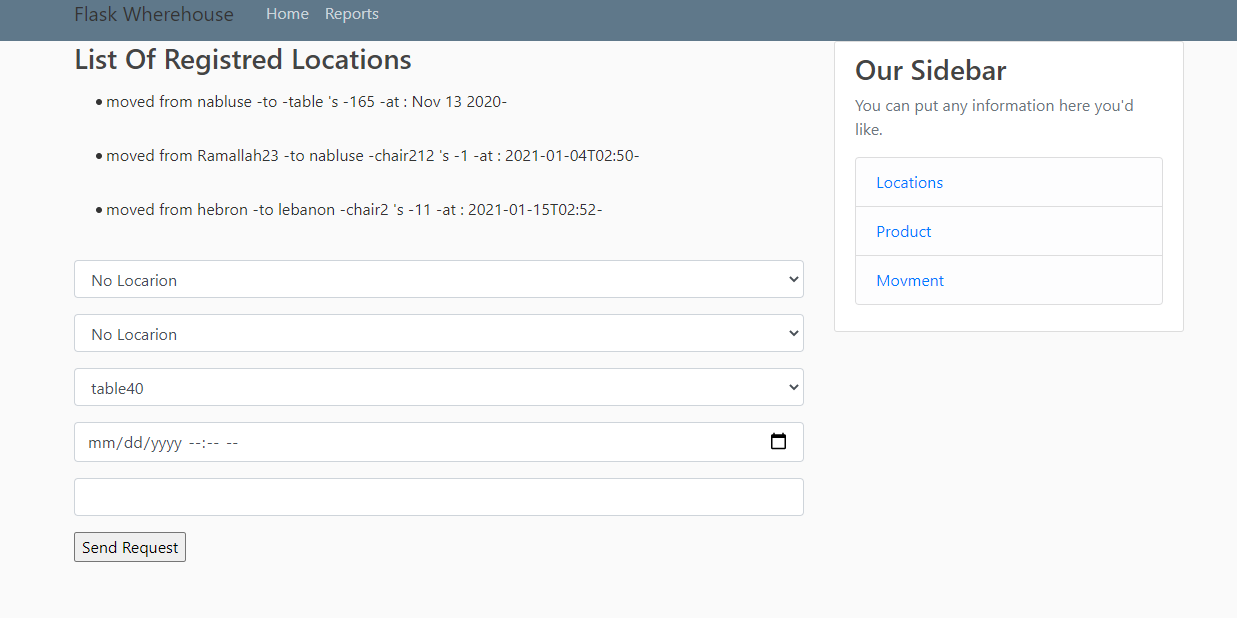
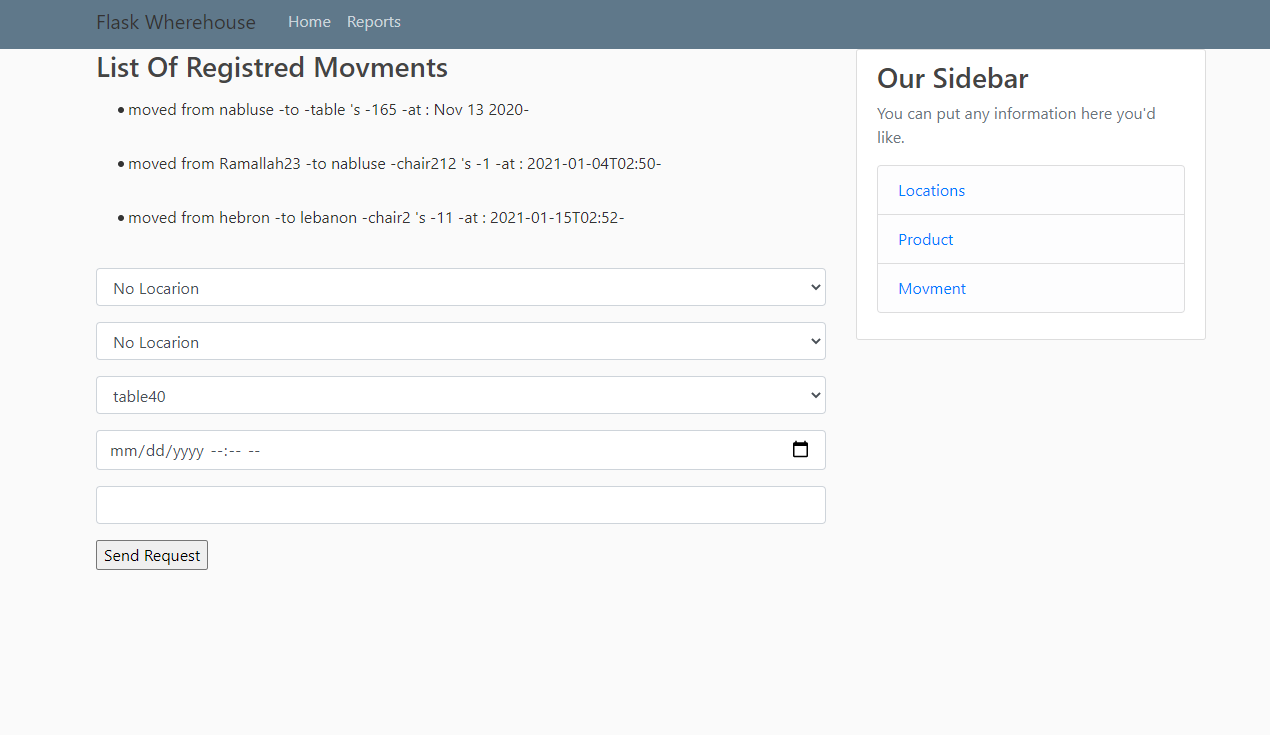
update read me file

diff --git a/templates/movment.html b/templates/movment.html
@@ -2,7 +2,7 @@
 {% extends "main.html" %}
 
     {% block content %}
-    <h3> List Of Registred Locations</h3>
+    <h3> List Of Registred Movments</h3>
         <ul>
             {% for item in data%}
                 <li>
